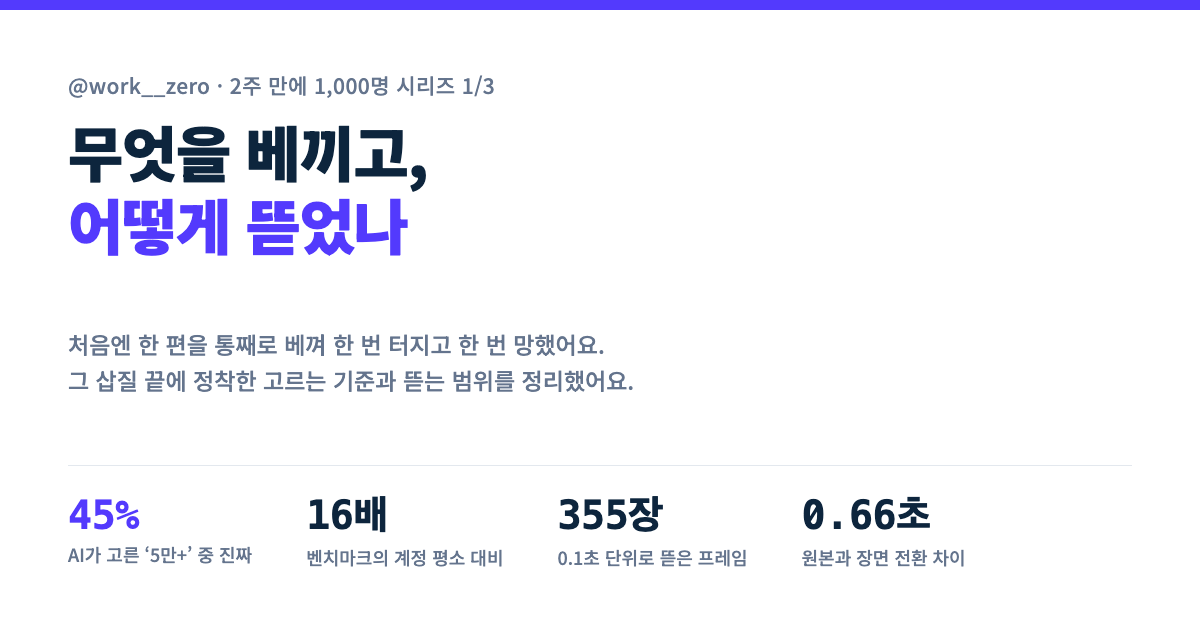
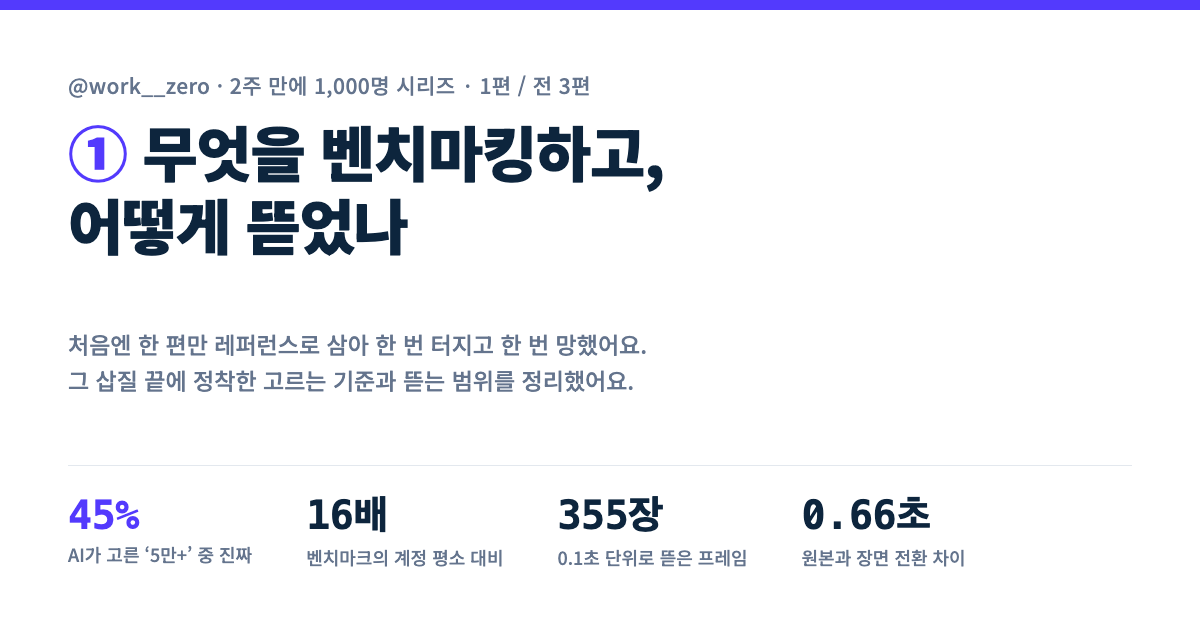
reports: 2주 만에 1,000명 시리즈 — '베끼다' 표현 정리 + 자료실에서 시리즈 번호 표시
- 1편 제목·본문: 베끼다/복제 → 벤치마킹·레퍼런스·재현 (Claude에게 보낸 실제 요청문은 원문 유지)
- OG 썸네일 제목 앞에 ①②③, 상단에 'N편 / 전 3편'
- 자료실 태그를 '2주 만에 1,000명 N/3'으로, 설명에 앞뒤 편 연결 문구, 같은 날짜 안에서 결과편 → ①②③ 순서

Changed region(s): [[0.0617, 0.181, 0.555, 0.4222], [0.1542, 0.5127, 0.555, 0.573], [0.37, 0.1206, 0.4933, 0.1508]]

diff --git a/reports/claude-reels-1-benchmark/index.html b/reports/claude-reels-1-benchmark/index.html
@@ -3,8 +3,8 @@
 <head>
 <meta charset="UTF-8">
 <meta name="viewport" content="width=device-width,initial-scale=1,viewport-fit=cover">
-<title>2주 만에 1,000명 ① 무엇을 베끼고, 어떻게 뜯었나 · 워크제로 자료실</title>
-<meta name="description" content="14일 만에 팔로워 57명에서 1,000명이 된 과정을 세 편으로 나눠 정리해요. 결과 숫자는 지난 칼럼에 있고, 이번 시리즈는 그걸 어떻게 만들었는지예요. 처음부터 잘 한 게 아니라서, 삽질한 순서대로 쓰고 지금 정착한 방식을 따로 정리했어요. 1편은 벤치마크를 고르고 뜯는 단계예요.">
+<title>2주 만에 1,000명 ① 무엇을 벤치마킹하고, 어떻게 뜯었나 · 워크제로 자료실</title>
+<meta name="description" content="14일 만에 팔로워 57명에서 1,000명이 된 과정을 세 편으로 나눠 정리해요. 결과 숫자는 지난 칼럼에 있고, 이번 시리즈는 그걸 어떻게 만들었는지예요. 처음부터 잘 한 게 아니라서, 삽질한 순서대로 쓰고 지금 정착한 방식을 따로 정리했어요. 시리즈 전체의 뼈대는 잘 된 릴스를 벤치마킹하고(1편), 레퍼런스 삼아 나만의 콘텐츠로 다시 만들고(2편), 그 과정을 도구로 굳힌 것(3편)이에요. 1편은 벤치마크를 고르고 뜯는 단계예요.">
 <link rel="canonical" href="https://workzeroai.github.io/reports/claude-reels-1-benchmark/">
 <link rel="icon" href="https://workzeroai.github.io/favicon.png" type="image/png">
 <link rel="apple-touch-icon" href="https://workzeroai.github.io/apple-touch-icon.png">
@@ -12,13 +12,13 @@
 <meta property="og:type" content="article">
 <meta property="og:site_name" content="워크제로">
 <meta property="og:locale" content="ko_KR">
-<meta property="og:title" content="2주 만에 1,000명 ① 무엇을 베끼고, 어떻게 뜯었나">
-<meta property="og:description" content="14일 만에 팔로워 57명에서 1,000명이 된 과정을 세 편으로 나눠 정리해요. 결과 숫자는 지난 칼럼에 있고, 이번 시리즈는 그걸 어떻게 만들었는지예요. 처음부터 잘 한 게 아니라서, 삽질한 순서대로 쓰고 지금 정착한 방식을 따로 정리했어요. 1편은 벤치마크를 고르고 뜯는 단계예요.">
+<meta property="og:title" content="2주 만에 1,000명 ① 무엇을 벤치마킹하고, 어떻게 뜯었나">
+<meta property="og:description" content="14일 만에 팔로워 57명에서 1,000명이 된 과정을 세 편으로 나눠 정리해요. 결과 숫자는 지난 칼럼에 있고, 이번 시리즈는 그걸 어떻게 만들었는지예요. 처음부터 잘 한 게 아니라서, 삽질한 순서대로 쓰고 지금 정착한 방식을 따로 정리했어요. 시리즈 전체의 뼈대는 잘 된 릴스를 벤치마킹하고(1편), 레퍼런스 삼아 나만의 콘텐츠로 다시 만들고(2편), 그 과정을 도구로 굳힌 것(3편)이에요. 1편은 벤치마크를 고르고 뜯는 단계예요.">
 <meta property="og:url" content="https://workzeroai.github.io/reports/claude-reels-1-benchmark/">
 <meta property="og:image" content="https://workzeroai.github.io/reports/claude-reels-1-benchmark/og.png">
 <meta name="twitter:card" content="summary_large_image">
-<meta name="twitter:title" content="2주 만에 1,000명 ① 무엇을 베끼고, 어떻게 뜯었나">
-<meta name="twitter:description" content="14일 만에 팔로워 57명에서 1,000명이 된 과정을 세 편으로 나눠 정리해요. 결과 숫자는 지난 칼럼에 있고, 이번 시리즈는 그걸 어떻게 만들었는지예요. 처음부터 잘 한 게 아니라서, 삽질한 순서대로 쓰고 지금 정착한 방식을 따로 정리했어요. 1편은 벤치마크를 고르고 뜯는 단계예요.">
+<meta name="twitter:title" content="2주 만에 1,000명 ① 무엇을 벤치마킹하고, 어떻게 뜯었나">
+<meta name="twitter:description" content="14일 만에 팔로워 57명에서 1,000명이 된 과정을 세 편으로 나눠 정리해요. 결과 숫자는 지난 칼럼에 있고, 이번 시리즈는 그걸 어떻게 만들었는지예요. 처음부터 잘 한 게 아니라서, 삽질한 순서대로 쓰고 지금 정착한 방식을 따로 정리했어요. 시리즈 전체의 뼈대는 잘 된 릴스를 벤치마킹하고(1편), 레퍼런스 삼아 나만의 콘텐츠로 다시 만들고(2편), 그 과정을 도구로 굳힌 것(3편)이에요. 1편은 벤치마크를 고르고 뜯는 단계예요.">
 <meta name="twitter:image" content="https://workzeroai.github.io/reports/claude-reels-1-benchmark/og.png">
 <link rel="preconnect" href="https://fonts.googleapis.com"><link rel="preconnect" href="https://fonts.gstatic.com" crossorigin>
 <link rel="stylesheet" href="https://fonts.googleapis.com/css2?family=Noto+Sans+KR:wght@400;500;700;800;900&display=swap">
@@ -329,17 +329,17 @@ footer{background:var(--ink);color:#7f97b5;font-size:12px;padding:24px 0}
   <div class="seg" role="tablist" aria-label="메뉴"><a href="../../tutoring/">1:1 과외</a><a href="../../build/">제작 문의</a><a class="on" href="../../library/" aria-current="page">자료실</a></div></div></nav>
 <main>
 <div class="rd"><a class="back" href="../../library/#columns">← 뜯어보기</a>
-  <div class="head"><div class="m">레이어드클럽 구조대 · 제로(@work__zero) · 시리즈 1/3 · 2026-10-09</div><h1>2주 만에 1,000명 ① 무엇을 베끼고, 어떻게 뜯었나</h1></div>
+  <div class="head"><div class="m">레이어드클럽 구조대 · 제로(@work__zero) · 시리즈 1/3 · 2026-10-09</div><h1>2주 만에 1,000명 ① 무엇을 벤치마킹하고, 어떻게 뜯었나</h1></div>
   
   <div class="bd">
-<p class="note" style="margin:-6px 0 26px">14일 만에 팔로워 57명에서 1,000명이 된 과정을 세 편으로 나눠 정리해요. 결과 숫자는 <a href="https://workzeroai.github.io/reports/followers-57-to-1000/">지난 칼럼</a>에 있고, 이번 시리즈는 그걸 어떻게 만들었는지예요. 처음부터 잘 한 게 아니라서, 삽질한 순서대로 쓰고 지금 정착한 방식을 따로 정리했어요. 1편은 벤치마크를 고르고 뜯는 단계예요.</p>
-<p class="lede"><strong>한 줄 결론:</strong> 처음엔 잘 된 릴스 한 편을 통째로 베꼈고, 한 번은 터지고 한 번은 망했어요. 지금은 <strong>실측으로 고르고, 소재를 먼저 정한 뒤, 여러 편에서 뼈대만</strong> 가져와요. 고르는 건 사람이, 모으고 재고 뜯는 건 AI가 해요.</p>
+<p class="note" style="margin:-6px 0 26px">14일 만에 팔로워 57명에서 1,000명이 된 과정을 세 편으로 나눠 정리해요. 결과 숫자는 <a href="https://workzeroai.github.io/reports/followers-57-to-1000/">지난 칼럼</a>에 있고, 이번 시리즈는 그걸 어떻게 만들었는지예요. 처음부터 잘 한 게 아니라서, 삽질한 순서대로 쓰고 지금 정착한 방식을 따로 정리했어요. 시리즈 전체의 뼈대는 <strong>잘 된 릴스를 벤치마킹하고(1편), 레퍼런스 삼아 나만의 콘텐츠로 다시 만들고(2편), 그 과정을 도구로 굳힌 것(3편)</strong>이에요. 1편은 벤치마크를 고르고 뜯는 단계예요.</p>
+<p class="lede"><strong>한 줄 결론:</strong> 처음엔 잘 된 릴스 한 편만 레퍼런스로 삼아 구성째 다시 만들었고, 한 번은 터지고 한 번은 망했어요. 지금은 <strong>실측으로 고르고, 소재를 먼저 정한 뒤, 여러 편에서 뼈대만</strong> 가져와 내 콘텐츠로 다시 만들어요. 고르는 건 사람이, 모으고 재고 뜯는 건 AI가 해요.</p>
 
   <section class="summary" id="summary">
     <h2>3줄 요약</h2>
     <ul class="plain">
-      <li><strong>처음엔 한 편을 0.1초 단위로 통째로 베꼈고, 터졌어요.</strong> 에브리AI 릴스를 355장으로 뜯어 하루 만에 세 AI를 거쳐 발행한 마케터 MCP 5선이 5만 회가 됐어요.</li>
-      <li><strong>같은 방법을 다시 쓰자 2천 회였어요.</strong> 형식은 잘 베꼈는데 소재가 틀렸어요. AI에게 ‘5만+ 릴스’를 골라 달라고 했더니 그것도 45%만 맞았어요.</li>
+      <li><strong>처음엔 잘 된 한 편을 0.1초 단위로 뜯어 구성째 다시 만들었고, 터졌어요.</strong> 에브리AI 릴스를 355장으로 뜯어 하루 만에 세 AI를 거쳐 발행한 마케터 MCP 5선이 5만 회가 됐어요.</li>
+      <li><strong>같은 방법을 다시 쓰자 2천 회였어요.</strong> 형식은 잘 가져왔는데 소재가 틀렸어요. AI에게 ‘5만+ 릴스’를 골라 달라고 했더니 그것도 45%만 맞았어요.</li>
       <li><strong>지금은 실측으로 고르고, 여러 편에서 뼈대만 재요.</strong> 실측 5만+, 그 계정 평소 대비 배수, 협찬 제외, 따라 할 수 있는 형식. 소재를 먼저 정하고, 그다음에 첫 7초와 장면 순서만 비교해요.</li>
     </ul>
   </section>
@@ -352,11 +352,11 @@ footer{background:var(--ink);color:#7f97b5;font-size:12px;padding:24px 0}
     <p>릴스 한 편은 지금 아홉 단계를 거쳐요. 처음부터 이랬던 건 아니고, 2주 동안 고치면서 굳은 모양이에요. 사람이 정하는 곳은 ‘사람’ 칸뿐이에요.</p>
     <div class="table-box"><table><thead><tr><th class="r">#</th><th>단계</th><th>사람</th><th>AI</th><th>도구</th></tr></thead><tbody><tr class="hit"><td class="r">1</td><td>벤치마크 고르기</td><td>최종 선택</td><td>수집·실측·배수 계산</td><td>Apify MCP · WorkZero Bench</td></tr><tr class="hit"><td class="r">2</td><td>분해</td><td>-</td><td>프레임·전사·장면표·색 실측</td><td>ffmpeg · whisper · Playwright</td></tr><tr><td class="r">3</td><td>소재 정하기 (G1)</td><td><b>결정</b></td><td>후보 + 증거 한 줄</td><td>노션 보드</td></tr><tr><td class="r">4</td><td>훅 정하기 (G2)</td><td><b>결정</b></td><td>2안 제시</td><td>-</td></tr><tr><td class="r">5</td><td>대본·음성</td><td>-</td><td>대본, 음성 생성 위임</td><td>aside → CapCut · whisper</td></tr><tr><td class="r">6</td><td>영상 (G3)</td><td><b>스틸 확인</b></td><td>장면 코드·렌더</td><td>HyperFrames</td></tr><tr><td class="r">7</td><td>썸네일</td><td>시안 선택</td><td>시안 2~4개</td><td>커버 스크립트</td></tr><tr><td class="r">8</td><td>가이드·DM</td><td>공개 확인</td><td>리서치·원고·캡처·발행</td><td>공식 문서 · 자료실 · 리틀리</td></tr><tr><td class="r">9</td><td>발행·회고</td><td>예약 OK</td><td>예약 세팅, 48시간 회고</td><td>aside · Meta AI · 노션</td></tr></tbody></table></div><p class="note">색이 칠해진 1·2단계가 이번 편이에요. 3~6단계는 2편, 5~9단계의 도구는 3편에서 다뤄요.</p>
     <p>AI도 하나만 쓰지 않았어요. 잘하는 일이 달라서 역할을 나눴어요.</p>
-    <div class="table-box"><table><thead><tr><th>AI</th><th>역할</th><th>실제로 맡긴 일</th></tr></thead><tbody><tr><td><b>Claude Code</b></td><td>총괄</td><td>기획 문서·스킬·스크립트 작성, 다른 AI에게 일 나눠 주고 결과 검수. 9/27 저녁 첫 편 발행본을 다시 만들었고, 9/28부터 제작 과정을 ‘스킬’로 묶어 이후 편을 만들었어요.</td></tr><tr><td><b>Antigravity (Gemini)</b></td><td>손이 많이 가는 작업</td><td>원본 릴스 0.1초 프레임 분해와 1:1 클론(9/26), 마케터 MCP 5선 화면 제작(9/27), WorkZero Bench 기능 구현 워커.</td></tr><tr><td><b>Codex</b></td><td>두 번째 눈</td><td>기획서·대본을 원본과 대조해 검토(9/27), 24시간 성과 분석 초안.</td></tr><tr><td><b>Meta AI</b></td><td>내 계정 데이터</td><td>인스타 인사이트 조회. 남의 계정 숫자 추정은 틀려서 버렸어요(아래).</td></tr><tr><td><b>aside</b></td><td>브라우저 대신 눌러 주기</td><td>로그인이 필요한 일(CapCut 음성, 리틀리, 인스타 예약). 3편에서 자세히.</td></tr></tbody></table></div>
+    <div class="table-box"><table><thead><tr><th>AI</th><th>역할</th><th>실제로 맡긴 일</th></tr></thead><tbody><tr><td><b>Claude Code</b></td><td>총괄</td><td>기획 문서·스킬·스크립트 작성, 다른 AI에게 일 나눠 주고 결과 검수. 9/27 저녁 첫 편 발행본을 다시 만들었고, 9/28부터 제작 과정을 ‘스킬’로 묶어 이후 편을 만들었어요.</td></tr><tr><td><b>Antigravity (Gemini)</b></td><td>손이 많이 가는 작업</td><td>원본 릴스 0.1초 프레임 분해와 1:1 재현(9/26), 마케터 MCP 5선 화면 제작(9/27), WorkZero Bench 기능 구현 워커.</td></tr><tr><td><b>Codex</b></td><td>두 번째 눈</td><td>기획서·대본을 원본과 대조해 검토(9/27), 24시간 성과 분석 초안.</td></tr><tr><td><b>Meta AI</b></td><td>내 계정 데이터</td><td>인스타 인사이트 조회. 남의 계정 숫자 추정은 틀려서 버렸어요(아래).</td></tr><tr><td><b>aside</b></td><td>브라우저 대신 눌러 주기</td><td>로그인이 필요한 일(CapCut 음성, 리틀리, 인스타 예약). 3편에서 자세히.</td></tr></tbody></table></div>
   </section>
   </div>
   <div class="part" id="part2">
-    <div class="part-head"><span class="part-k">PART 2</span><h2 class="part-t">삽질기</h2><p class="part-d">통째로 베껴서 한 번 터지고, 같은 방법으로 한 번 망하고, AI 숫자를 믿었다가 틀린 2주 전반부예요.</p></div>
+    <div class="part-head"><span class="part-k">PART 2</span><h2 class="part-t">삽질기</h2><p class="part-d">한 편을 구성째 다시 만들어 한 번 터지고, 같은 방법으로 한 번 망하고, AI 숫자를 믿었다가 틀린 2주 전반부예요.</p></div>
   <section id="before">
     <h2>57명 시절 — 눈으로 보고 따라 만들기</h2>
     <p>9월 중순까지는 마음에 드는 릴스 한두 개를 눈으로 보고, 비슷한 느낌으로 도구 소개 영상을 만들었어요. ChatGPT×노션 연동, Aside 브라우저 에이전트 같은 주제였고, 영상은 Remotion이나 화면 녹화 줌으로 만들었어요.</p>
@@ -391,7 +391,7 @@ footer{background:var(--ink);color:#7f97b5;font-size:12px;padding:24px 0}
     <p>말하는 단어에 맞춰 화면이 움직이는 순간도 표로 뽑았어요.</p>
     <div class="table-box"><table><thead><tr><th>움직임</th><th>언제</th><th>화면 변화</th><th>노린 것</th></tr></thead><tbody><tr><td>토글 연속 점등</td><td>훅 2.5초</td><td>토글 5개가 0.1초 간격으로 켜짐</td><td>‘5개가 준비됐다’는 완결 기대</td></tr><tr><td>강조 테두리</td><td>핵심 명사를 말할 때</td><td>회색 테두리 → 주황 2px</td><td>시선을 그 기능으로</td></tr><tr><td>타이핑 커서</td><td>‘요청문’을 말할 때</td><td>입력창에 한 글자씩(50ms)</td><td>정지 화면이 아니라 실제 구동처럼</td></tr><tr><td>팔로우 버튼 전환</td><td>‘팔로우하고’ 순간</td><td>파란 팔로우 → 팔로잉 ✓</td><td>손가락 행동을 미리 보여 줌</td></tr><tr><td>댓글 타이핑</td><td>‘댓글 남겨주세요’ 순간</td><td>댓글창에 ‘필요해요!’ 입력 후 게시</td><td>댓글 다는 장벽을 낮춤</td></tr></tbody></table></div>
     <p>그리고 이 분석으로 하루 만에 세 AI를 거쳐 발행까지 갔어요.</p>
-    <div class="table-box"><table><thead><tr><th>언제</th><th>누가</th><th>한 일</th></tr></thead><tbody><tr><td>9/26</td><td><b>Antigravity</b></td><td>원본 35.4초를 0.1초마다 355장으로 쪼개 분석하고, 움직임까지 1:1로 다시 만든 복제본 완성</td></tr><tr><td>9/27 낮</td><td><b>Antigravity</b></td><td>마케터용으로 바꾼 1차 영상. Remotion과 Playwright 두 방식으로 각각 렌더, 음성은 무료 TTS</td></tr><tr><td>9/27 오후</td><td><b>Codex</b></td><td>원본 분석 문서와 기획서를 대조해 검토(요청문은 아래)</td></tr><tr><td>9/27 저녁</td><td><b>Claude Code</b></td><td>HyperFrames로 다시 만들고, 도구 이름 영어 표기·CapCut 애덤 음성·1.25배속 35초로 수정, 캡션·가이드·썸네일·리틀리까지</td></tr><tr class="hit"><td>9/27 23:53</td><td><b>발행</b></td><td>10일 뒤 조회 5만 회</td></tr></tbody></table></div>
+    <div class="table-box"><table><thead><tr><th>언제</th><th>누가</th><th>한 일</th></tr></thead><tbody><tr><td>9/26</td><td><b>Antigravity</b></td><td>원본 35.4초를 0.1초마다 355장으로 쪼개 분석하고, 움직임까지 1:1로 다시 만든 재현본 완성</td></tr><tr><td>9/27 낮</td><td><b>Antigravity</b></td><td>마케터용으로 바꾼 1차 영상. Remotion과 Playwright 두 방식으로 각각 렌더, 음성은 무료 TTS</td></tr><tr><td>9/27 오후</td><td><b>Codex</b></td><td>원본 분석 문서와 기획서를 대조해 검토(요청문은 아래)</td></tr><tr><td>9/27 저녁</td><td><b>Claude Code</b></td><td>HyperFrames로 다시 만들고, 도구 이름 영어 표기·CapCut 애덤 음성·1.25배속 35초로 수정, 캡션·가이드·썸네일·리틀리까지</td></tr><tr class="hit"><td>9/27 23:53</td><td><b>발행</b></td><td>10일 뒤 조회 5만 회</td></tr></tbody></table></div>
     <div class="figure"><svg class="chart-svg" viewBox="0 0 720 154" role="img" aria-label="원본 릴스와 WorkZero 릴스의 장면 8개 순서와 길이 비교. 전환 시점 차이는 평균 0.66초." style="font-size:12px">
 <line class="c-link" x1="139.3" y1="50.4" x2="133.3" y2="79.2"/>
 <line class="c-link" x1="238.9" y1="50.4" x2="227.0" y2="79.2"/>
@@ -464,17 +464,17 @@ footer{background:var(--ink);color:#7f97b5;font-size:12px;padding:24px 0}
    - 씬별 카피와 하단 증거 카드가 0.1초 만에 직관적으로 꽂히는가?
 3. 개선된 씬별 기획 및 카피 제안:
    - 원본의 빠르고 경쾌한 호흡(35초 완결, 씬당 4~5초)을 살리기 위해, 씬 1부터 8까지의 [중앙 자막(2~4단어)], [보이스오버 대사], [상단/하단 시각 요소]를 가장 완벽하고 날카로운 버전으로 재기획해주세요.</pre>
-    <p class="note">0.1초 단위 전수 분해와 1:1 복제는 결과적으로 과했어요. 실제 제작에 쓰인 건 세 칸 배치, 장면 순서와 길이, 단어에 맞춘 움직임 정도였어요. 그래도 한 번 통째로 뜯어 본 덕에 ‘뼈대가 뭔지’ 감을 잡았어요.</p>
+    <p class="note">0.1초 단위 전수 분해와 1:1 재현은 결과적으로 과했어요. 실제 제작에 쓰인 건 세 칸 배치, 장면 순서와 길이, 단어에 맞춘 움직임 정도였어요. 그래도 한 번 통째로 뜯어 본 덕에 ‘뼈대가 뭔지’ 감을 잡았어요.</p>
   </section>
   <section id="fail">
     <h2>같은 방법을 다시 썼더니 2천 회 (9/28~29)</h2>
-    <p>통째로 베끼는 방법이 통했다고 생각하고, 다음 편도 똑같이 했어요. 다른 계정의 릴스 한 편을 Apify로 받아서 그대로 다시 만들게 했어요. 그때 Claude에게 보낸 요청은 이 한 줄이었어요.</p>
+    <p>한 편을 레퍼런스로 삼아 구성째 다시 만드는 방법이 통했다고 생각하고, 다음 편도 똑같이 했어요. 다른 계정의 릴스 한 편을 Apify로 받아서 같은 구성으로 다시 만들게 했어요. 그때 Claude에게 보낸 요청은 이 한 줄이었어요.</p>
     <pre style="white-space:pre-wrap;word-break:break-all;background:var(--soft);border:1px solid var(--hair);border-radius:12px;padding:14px 16px;font-size:13px;line-height:1.65;margin:0">apify mcp으로 다음 영상 다운로드한 다음에 모션 그래픽 스킬을 써서 그대로 복제해봐.
 https://www.instagram.com/reel/…</pre>
     <ul class="plain">
       <li><strong>하루에 버전을 열 번 넘게 고쳤어요.</strong> 모션이 단조롭다, 훅이 약하다, 효과음이 없다 같은 이유로 버전 폴더가 15개까지 늘었어요.</li>
-      <li><strong>결과는 2,249회였어요.</strong> 형식은 잘 베꼈는데, 돌아보니 문제는 주제였어요. 첫 편이 ‘마케터가 연결할 도구 5개’였다면 이번엔 ‘Meta AI 하나로 인스타 분석’이라 쓸모가 좁았어요.</li>
-      <li>여기서 처음으로 <strong>형식을 아무리 잘 베껴도 소재가 틀리면 안 된다</strong>는 걸 알았어요. 그리고 형식만 다듬느라 쓴 하루가 아까웠어요.</li>
+      <li><strong>결과는 2,249회였어요.</strong> 형식은 잘 가져왔는데, 돌아보니 문제는 주제였어요. 첫 편이 ‘마케터가 연결할 도구 5개’였다면 이번엔 ‘Meta AI 하나로 인스타 분석’이라 쓸모가 좁았어요.</li>
+      <li>여기서 처음으로 <strong>형식을 아무리 잘 가져와도 소재가 틀리면 안 된다</strong>는 걸 알았어요. 그리고 형식만 다듬느라 쓴 하루가 아까웠어요.</li>
     </ul>
   </section>
   <section id="meta-fail">
@@ -530,7 +530,7 @@ https://www.instagram.com/reel/…</pre>
   </section>
   <section id="skeleton">
     <h2>정착 ② 통째로 말고, 여러 편에서 뼈대만</h2>
-    <p>디자인 도구 3개 편(10/4)부터는 한 편을 통째로 베끼지 않았어요. 에브리AI·게으른 빌더 릴스를 포함한 벤치마크 다섯 편을 같이 놓고 <strong>첫 7초만</strong> 비교했어요. 자막이 어디 놓이는지, 결과물을 몇 초 보여 주는지, 시청자가 궁금해할 고리를 어떻게 여는지를 봤어요.</p>
+    <p>디자인 도구 3개 편(10/4)부터는 레퍼런스를 한 편으로 두지 않았어요. 에브리AI·게으른 빌더 릴스를 포함한 벤치마크 다섯 편을 같이 놓고 <strong>첫 7초만</strong> 비교했어요. 자막이 어디 놓이는지, 결과물을 몇 초 보여 주는지, 시청자가 궁금해할 고리를 어떻게 여는지를 봤어요.</p>
     <ul class="plain">
       <li><strong>원본 계정의 도구 목록과 문장은 쓰지 않아요.</strong> 디자인 편의 도구 3개는 게으른 빌더가 소개한 조합과 1개만 겹치게 새로 골랐어요.</li>
       <li><strong>장면표에 남기는 항목:</strong> 첫 컷 길이, 결과물이 처음 보이는 시점, 자막 줄 수와 강조 방식, 카드 한 장의 글자 수, CTA 위치(전체의 87~94% 지점).</li>
@@ -561,7 +561,7 @@ https://www.instagram.com/reel/…</pre>
       <div><h3>남의 숫자는 원본에서</h3><p>AI에게 “잘 된 릴스 골라줘”라고 하지 말고 재생수를 직접 받아 오게 하세요. 짐작한 숫자는 절반이 틀렸어요.</p></div>
       <div><h3>그 계정 평소 대비로 보기</h3><p>조회수 절댓값보다 그 계정 중앙값의 몇 배인지가 형식의 힘에 더 가까워요.</p></div>
       <div><h3>한 번은 통째로, 그다음부턴 뼈대만</h3><p>처음 한 편은 끝까지 뜯어 보면 감이 와요. 두 번째부터는 여러 편의 첫 7초와 장면 순서만 비교해도 충분했어요.</p></div>
-      <div><h3>소재 먼저, 역기획은 나중</h3><p>형식을 잘 베껴도 소재가 틀리면 2천 회예요. 무엇을 말할지 정한 다음에 어떻게 보여 줄지를 뜯어요.</p></div>
+      <div><h3>소재 먼저, 역기획은 나중</h3><p>형식을 잘 가져와도 소재가 틀리면 2천 회예요. 무엇을 말할지 정한 다음에 어떻게 보여 줄지를 뜯어요.</p></div>
       <div><h3>검토는 다른 AI에게</h3><p>원본 분석 문서를 같이 주고 다른 AI에게 대조시키면 놓친 게 잘 보여요.</p></div>
     </div>
   </section>
@@ -574,7 +574,7 @@ https://www.instagram.com/reel/…</pre>
     </ul>
   </section>
   </div>
-  <nav class="toc" id="series" aria-label="시리즈 이동"><p class="toc-k">2주 만에 1,000명 시리즈 · 다음 편 → <a href="https://workzeroai.github.io/reports/claude-reels-2-adapt/">2편 · 내 것으로 바꾸고, 반려를 규칙으로</a></p><ol><li><a href="https://workzeroai.github.io/reports/claude-reels-1-benchmark/" aria-current="page"><b>1</b><span>무엇을 베끼고, 어떻게 뜯었나 (지금 글)</span></a></li><li><a href="https://workzeroai.github.io/reports/claude-reels-2-adapt/"><b>2</b><span>내 것으로 바꾸고, 반려를 규칙으로</span></a></li><li><a href="https://workzeroai.github.io/reports/claude-reels-3-tools/"><b>3</b><span>매일 쓴 도구와 실제 프롬프트</span></a></li></ol></nav>
+  <nav class="toc" id="series" aria-label="시리즈 이동"><p class="toc-k">2주 만에 1,000명 시리즈 · 다음 편 → <a href="https://workzeroai.github.io/reports/claude-reels-2-adapt/">2편 · 내 것으로 바꾸고, 반려를 규칙으로</a></p><ol><li><a href="https://workzeroai.github.io/reports/claude-reels-1-benchmark/" aria-current="page"><b>1</b><span>무엇을 벤치마킹하고, 어떻게 뜯었나 (지금 글)</span></a></li><li><a href="https://workzeroai.github.io/reports/claude-reels-2-adapt/"><b>2</b><span>내 것으로 바꾸고, 반려를 규칙으로</span></a></li><li><a href="https://workzeroai.github.io/reports/claude-reels-3-tools/"><b>3</b><span>매일 쓴 도구와 실제 프롬프트</span></a></li></ol></nav>
   <footer>
     <p>자료: Apify로 수집한 AI 정보 계정 7곳 릴스 251개(2026-09-30, Meta AI 후보 72개 포함), 원본 릴스 프레임 분석 문서(9/26~27), WorkZero Bench 수집 데이터(2026-10-09 조회), 각 릴스 기획서와 AI 세션 기록.</p>
     <p>한계: 벤치마크 기준은 릴스 세 편을 만들며 정리한 것이라 일반 법칙이 아니에요. 다른 계정 릴스는 화면을 싣지 않고 구조만 다시 그렸어요. 계정 평소 수준은 협찬을 뺀 릴스 재생수 중앙값이에요.</p>

diff --git a/reports/claude-reels-3-tools/index.html b/reports/claude-reels-3-tools/index.html
@@ -515,7 +515,7 @@ footer{background:var(--ink);color:#7f97b5;font-size:12px;padding:24px 0}
     </ul>
   </section>
   </div>
-  <nav class="toc" id="series" aria-label="시리즈 이동"><p class="toc-k">2주 만에 1,000명 시리즈 · 시리즈 끝이에요. 결과 숫자는 <a href="https://workzeroai.github.io/reports/followers-57-to-1000/">14일 만에 57명에서 1,000명으로</a>에 있어요.</p><ol><li><a href="https://workzeroai.github.io/reports/claude-reels-1-benchmark/"><b>1</b><span>무엇을 베끼고, 어떻게 뜯었나</span></a></li><li><a href="https://workzeroai.github.io/reports/claude-reels-2-adapt/"><b>2</b><span>내 것으로 바꾸고, 반려를 규칙으로</span></a></li><li><a href="https://workzeroai.github.io/reports/claude-reels-3-tools/" aria-current="page"><b>3</b><span>매일 쓴 도구와 실제 프롬프트 (지금 글)</span></a></li></ol></nav>
+  <nav class="toc" id="series" aria-label="시리즈 이동"><p class="toc-k">2주 만에 1,000명 시리즈 · 시리즈 끝이에요. 결과 숫자는 <a href="https://workzeroai.github.io/reports/followers-57-to-1000/">14일 만에 57명에서 1,000명으로</a>에 있어요.</p><ol><li><a href="https://workzeroai.github.io/reports/claude-reels-1-benchmark/"><b>1</b><span>무엇을 벤치마킹하고, 어떻게 뜯었나</span></a></li><li><a href="https://workzeroai.github.io/reports/claude-reels-2-adapt/"><b>2</b><span>내 것으로 바꾸고, 반려를 규칙으로</span></a></li><li><a href="https://workzeroai.github.io/reports/claude-reels-3-tools/" aria-current="page"><b>3</b><span>매일 쓴 도구와 실제 프롬프트 (지금 글)</span></a></li></ol></nav>
   <footer>
     <p>자료: Claude 세션 기록(9/27~10/9, 사용자 요청 원문·aside 지시문·작업 시간), 릴스 제작 스킬 문서(음성·커버·가이드·모션 패턴), 리틀리·인스타 예약 스킬 실사용 기록, 각 릴스 폴더의 파일.</p>
     <p>한계: 작업 시간은 세션 기록의 메시지 간격으로 추정했어요. 지시문은 이메일·개인 경로를 빼고 길이 때문에 일부 줄을 생략(…)했어요. 도구의 동작은 2026년 10월 기준이에요.</p>

diff --git a/reports/claude-reels-2-adapt/index.html b/reports/claude-reels-2-adapt/index.html
@@ -500,7 +500,7 @@ footer{background:var(--ink);color:#7f97b5;font-size:12px;padding:24px 0}
     </ul>
   </section>
   </div>
-  <nav class="toc" id="series" aria-label="시리즈 이동"><p class="toc-k">2주 만에 1,000명 시리즈 · 다음 편 → <a href="https://workzeroai.github.io/reports/claude-reels-3-tools/">3편 · 매일 쓴 도구와 실제 프롬프트</a></p><ol><li><a href="https://workzeroai.github.io/reports/claude-reels-1-benchmark/"><b>1</b><span>무엇을 베끼고, 어떻게 뜯었나</span></a></li><li><a href="https://workzeroai.github.io/reports/claude-reels-2-adapt/" aria-current="page"><b>2</b><span>내 것으로 바꾸고, 반려를 규칙으로 (지금 글)</span></a></li><li><a href="https://workzeroai.github.io/reports/claude-reels-3-tools/"><b>3</b><span>매일 쓴 도구와 실제 프롬프트</span></a></li></ol></nav>
+  <nav class="toc" id="series" aria-label="시리즈 이동"><p class="toc-k">2주 만에 1,000명 시리즈 · 다음 편 → <a href="https://workzeroai.github.io/reports/claude-reels-3-tools/">3편 · 매일 쓴 도구와 실제 프롬프트</a></p><ol><li><a href="https://workzeroai.github.io/reports/claude-reels-1-benchmark/"><b>1</b><span>무엇을 벤치마킹하고, 어떻게 뜯었나</span></a></li><li><a href="https://workzeroai.github.io/reports/claude-reels-2-adapt/" aria-current="page"><b>2</b><span>내 것으로 바꾸고, 반려를 규칙으로 (지금 글)</span></a></li><li><a href="https://workzeroai.github.io/reports/claude-reels-3-tools/"><b>3</b><span>매일 쓴 도구와 실제 프롬프트</span></a></li></ol></nav>
   <footer>
     <p>자료: 각 릴스 기획서(버전·반려 기록), Claude 세션 기록(9/27~10/9, 사용자 메시지 원문과 작업 시간), 릴스 제작 스킬의 규칙·게이트 문서(2026-10-08), 인스타 인사이트(10/8 캡처).</p>
     <p>한계: 작업 시간은 세션 기록의 메시지 간격으로 추정한 값이고 기획 대화가 섞여 있어요. 버전 수는 편마다 세는 단위(폴더·기록 줄)가 조금 달라요. 게이트 도입 효과는 아직 숫자로 검증하지 않았어요.</p>
